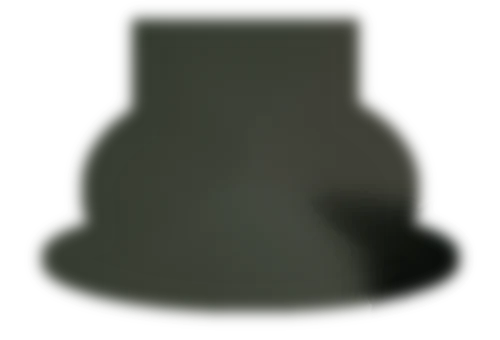
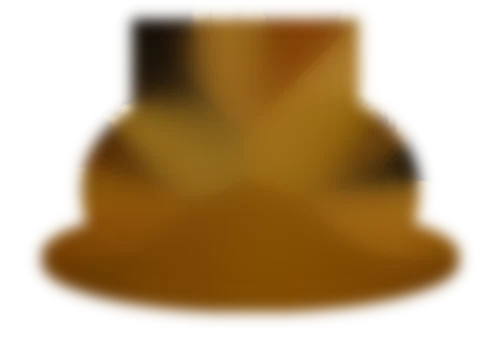
Arcs: 3D cakes sit on the film's table (warm light, clean-plate patch from a birthday-shot frame, opaque patch pass, no glow blobs)
Claude-Session: https://claude.ai/code/session_012XUjiVA27hvDrcXvw3npJQ

diff --git a/arcs.html b/arcs.html
@@ -31,9 +31,9 @@
   var ST = window.STAGE, T = ST.T, N = ST.nodes, C = ST.C, clamp = function (v, a, b) { return Math.max(a, Math.min(b, v)); };
   var TE = 5.5, TEND = 7.4, PAUSE = TE - .7;                      // the flame goes out at TE; Ana stops the party just before the breath
   var VARIANTS = [
-    { name: 'LOW', t: { r: 1.05, h: .72 }, drip: .3, gloss: .5, shells: 36, candles: 5, ch: .3, ring: .6, lean: 0 },
-    { name: 'TALL CANDLES', t: { r: .92, h: .95 }, drip: .5, gloss: .5, shells: 30, candles: 5, ch: 1.2, ring: .5, lean: 0 },
-    { name: 'HOMEMADE', t: { r: 1.0, h: .85 }, drip: .95, gloss: .1, shells: 18, candles: 4, ch: .55, ring: .6, lean: 1 }
+    { name: 'LOW', t: { r: 1.05, h: .62 }, drip: .3, gloss: .5, shells: 36, candles: 5, ch: .3, ring: .6, lean: 0 },
+    { name: 'TALL CANDLES', t: { r: 1.0, h: .78 }, drip: .5, gloss: .5, shells: 30, candles: 5, ch: .75, ring: .5, lean: 0 },
+    { name: 'HOMEMADE', t: { r: 1.02, h: .7 }, drip: .95, gloss: .1, shells: 18, candles: 4, ch: .55, ring: .6, lean: 1 }
   ];
   var PERF = [   // the six children of the film's wide shot, each a full-body clip placed at the shot's own coordinates. Two carry a timing arc.
     { id: 'left', name: 'LEFT', delay: 0 }, { id: 'small', name: 'SMALL', delay: 0 }, { id: 'back', name: 'BACK', delay: 0 },
@@ -48,10 +48,10 @@
   var PF = [], pfN = 0, pcv = document.createElement('canvas'); pcv.width = 960; pcv.height = 540; var pg = pcv.getContext('2d'), vtex = new T.CanvasTexture(pcv); vtex.encoding = T.sRGBEncoding; var pfLast = -1;
   for (var pi = 1; pi <= 41; pi++) (function (i) { var im = new Image(); im.onload = function () { pfN++; pfLast = -1; }; im.src = 'assets/plate/p_' + String(i).padStart(3, '0') + '.jpg'; PF[i - 1] = im; })(pi);
   var baseMesh = new T.Mesh(new T.PlaneGeometry(1, 1), new T.MeshBasicMaterial({ map: vtex })); baseMesh.renderOrder = -10; baseMesh.visible = false; ST.SETA.add(baseMesh);
-  var patch = null, patchMesh = new T.Mesh(new T.PlaneGeometry(1, 1), new T.MeshBasicMaterial({ transparent: true, depthTest: false, depthWrite: false })); patchMesh.renderOrder = -5; patchMesh.visible = false; ST.SETA.add(patchMesh);
+  var patch = null, patchMesh = new T.Mesh(new T.PlaneGeometry(1, 1), new T.MeshBasicMaterial({ alphaTest: .35, depthTest: false, depthWrite: false })); patchMesh.renderOrder = -5; patchMesh.visible = false; ST.SETA.add(patchMesh);
   fetch('assets/plate/patch.json').then(function (r) { return r.json(); }).then(function (j) { patch = j; new T.TextureLoader().load('assets/plate/patch.webp', function (tx) { tx.encoding = T.sRGBEncoding; patchMesh.material.map = tx; patchMesh.material.needsUpdate = true; }); });
   /* the plate: the six slabs laid on one plane behind the table, facing the camera, in the shot's own layout */
-  ST.scene.add(new T.AmbientLight(0x4a3418, .38));
+  ST.scene.add(new T.AmbientLight(0x4a3418, .45)); var warmFill = new T.PointLight(0xffa850, .6, 7, 1.6); warmFill.position.set(.2, 1.9, 2.6); ST.scene.add(warmFill); ST.scene.traverse(function (o) { if (o.isHemisphereLight) { o.color.setHex(0x4a3418); o.groundColor.setHex(0x120a04); o.intensity = .5; } if (o.isSpotLight) o.intensity = 0; });
   var tmpO = new T.PerspectiveCamera();
   function placePlate() {
     var yaw = C.yaw * Math.PI / 180, pit = C.pitch * Math.PI / 180, cp = Math.cos(pit), pos = new T.Vector3(C.tx + Math.sin(yaw) * cp * C.D, C.ty + Math.sin(pit) * C.D, C.tz + Math.cos(yaw) * cp * C.D), tg = new T.Vector3(C.tx, C.ty, C.tz);
@@ -82,9 +82,9 @@
   ];
   var FLOUR = [[0.2, -0.8], [3, -1.3], [6.5, -0.6], [10, -1.2], [14, -0.7], [18, -1.0]];
   var dotTex = (function () { var c = document.createElement('canvas'); c.width = 256; c.height = 128; var g = c.getContext('2d'); g.fillStyle = '#e9dfc4'; g.fillRect(0, 0, 256, 128); for (var y = 0; y < 5; y++) for (var x = 0; x < 12; x++) { var cx = x * 22 + (y % 2) * 11 + 8, cy = y * 26 + 14; g.fillStyle = 'rgba(40,24,14,.85)'; g.beginPath(); g.arc(cx, cy, 4.2, 0, 7); g.fill(); } var t = new T.CanvasTexture(c); t.encoding = T.sRGBEncoding; t.wrapS = t.wrapT = T.RepeatWrapping; t.repeat.set(2, 1); return t; })();
-  var dotMat = new T.MeshStandardMaterial({ map: dotTex, roughness: .85, color: 0xa89572 }), goldMat = new T.MeshStandardMaterial({ color: 0x8a6420, emissive: 0x0e0802, roughness: .7 });
+  var dotMat = new T.MeshStandardMaterial({ map: dotTex, roughness: .9, color: 0x6c5d42 }), goldMat = new T.MeshStandardMaterial({ color: 0x8a6420, emissive: 0x0e0802, roughness: .7 });
   var creamTex = (function () { var c = document.createElement('canvas'); c.width = c.height = 256; var g = c.getContext('2d'); g.fillStyle = '#d6c498'; g.fillRect(0, 0, 256, 256); for (var i = 0; i < 700; i++) { var a = Math.random(); g.fillStyle = a < .5 ? 'rgba(255,244,214,.35)' : 'rgba(120,92,52,.25)'; g.beginPath(); g.ellipse(Math.random() * 256, Math.random() * 256, 2 + Math.random() * 7, 1.5 + Math.random() * 4, Math.random() * 3, 0, 7); g.fill(); } var t = new T.CanvasTexture(c); t.encoding = T.sRGBEncoding; t.wrapS = t.wrapT = T.RepeatWrapping; t.repeat.set(2, 2); return t; })();
-  var creamMat = new T.MeshStandardMaterial({ map: creamTex, roughness: .9, color: 0xe0cfa6 });
+  var creamMat = new T.MeshStandardMaterial({ map: creamTex, roughness: .92, color: 0x9a8a64 });
   var insG = null, insMat = new T.MeshStandardMaterial({ color: 0xc8301e, roughness: .32 });
   function inscribe() {
     if (insG) { ST.cakeG.remove(insG); insG.traverse(function (o) { if (o.geometry) o.geometry.dispose(); }); insG = null; } if (ins <= 0) return;
@@ -167,7 +167,7 @@
       PERF.forEach(function (p) { var cd = cards[p.id], c = slabs[p.id], im = imgs[p.id]; if (!c || !im.naturalWidth) return; var ct = clamp(t - PAUSE + .6 - p.delay, 0, c.n / c.fps - .01), k = clamp(Math.floor(ct * c.fps), 0, c.n - 1);
         if (cd.cv.width !== c.w) { cd.cv.width = c.w; cd.cv.height = c.h; } cd.g.clearRect(0, 0, c.w, c.h); cd.g.filter = 'blur(.9px)'; cd.g.drawImage(im, (k % c.cols) * c.w, Math.floor(k / c.cols) * c.h, c.w, c.h, 0, 0, c.w, c.h); cd.tex.needsUpdate = true;
         cd.mesh.visible = view === 'ana' && plateReady && !p.cake && Math.abs(p.delay) > .04; cd.mat.color.setRGB(1, 1, 1); });
-      ST.flameSprites.forEach(function (f) { f.gl.material.opacity *= .3; });
+      ST.flameSprites.forEach(function (f) { f.gl.material.opacity = 0; });
       lastClear = clearEyes(); draw();
       document.getElementById('state').innerHTML = (view === 'ana' ? 'ANA, WORKING' : 'THE BIRTHDAY SEAT') + '<br>' + (held ? 'HELD' : out ? 'FLAME OUT' : 'PLAYING') + ' · ' + t.toFixed(1) + ' S<br>' + (sel === 'ver' ? 'ARC: CAKE · VERSION' : sel === 'ins' ? 'ARC: CAKE · SURFACE' : sel === 'tilt' ? 'ARC: CAKE · ORIENTATION' : 'ARC: ' + PERF.filter(function (p) { return p.id === sel; })[0].name);
     };

diff --git a/tools/boys/cake_patch.py b/tools/boys/cake_patch.py
@@ -2,7 +2,7 @@
 Usage: python3 cake_patch.py VIDEO OUT_DIR"""
 import sys, json, numpy as np, cv2
 from PIL import Image
-V, OUT = sys.argv[1], sys.argv[2]; cap = cv2.VideoCapture(V); fps = cap.get(cv2.CAP_PROP_FPS); cap.set(cv2.CAP_PROP_POS_FRAMES, int(round(213.0 * fps))); ok, f = cap.read(); f = cv2.resize(f, (1280, 720))
+V, OUT = sys.argv[1], sys.argv[2]; cap = cv2.VideoCapture(V); fps = cap.get(cv2.CAP_PROP_FPS); cap.set(cv2.CAP_PROP_POS_FRAMES, int(round(213.8 * fps))); ok, f = cap.read(); f = cv2.resize(f, (1280, 720))
 yy, xx = np.mgrid[0:720, 0:1280].astype(np.float32)
 body = (((xx - 370) / 165) ** 2 + ((yy - 540) / 108) ** 2 < 1); shadow = (((xx - 370) / 205) ** 2 + ((yy - 608) / 50) ** 2 < 1); cand = (xx > 255) & (xx < 475) & (yy > 372) & (yy < 470)
 m = (body | shadow | cand).astype(np.uint8) * 255; m = cv2.dilate(m, np.ones((9, 9), np.uint8))

diff --git a/docs/operations.md b/docs/operations.md
@@ -37,4 +37,4 @@ What the footage does not give us: the candles going out (the clip cuts away), t
 
 The default view of `arcs.html` is the film's own wide shot (213.15-216.55 s, 41 frames at 960x540 in `assets/plate/`) used as the base plate, so the table, the wall band, the horizon and the lit adult at right are film pixels. The six children are full-body cut-outs (`assets/slabs/`) laid over it; they appear only when a child's timing arc moves away from zero, so the retimed child replaces the original at her new time (the original shows through at her edges as a ghost).
 The cake arc has a FILM detent (the plate's own cake) and three 3D cakes. A clean-plate patch (`assets/plate/patch.webp`, made by `tools/boys/cake_patch.py`) covers the film's cake when a 3D cake is selected. Lettering and tilt work on the 3D cakes only.
-Known: the 3D cakes look wrong against the plate (proportions and cool grey shading); that is the next thing to fix.
+3D cakes now sit on the plate's table with warm light and a clean-plate patch under them; the film cake is the default.
